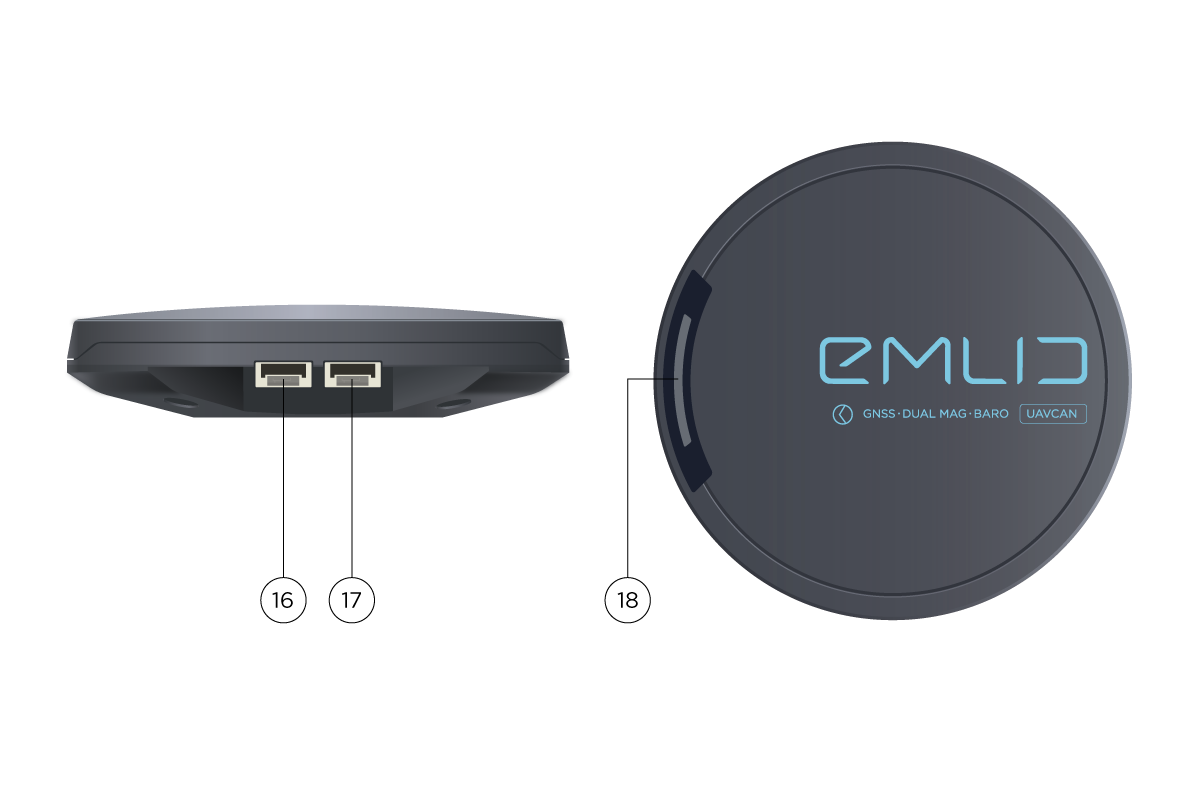
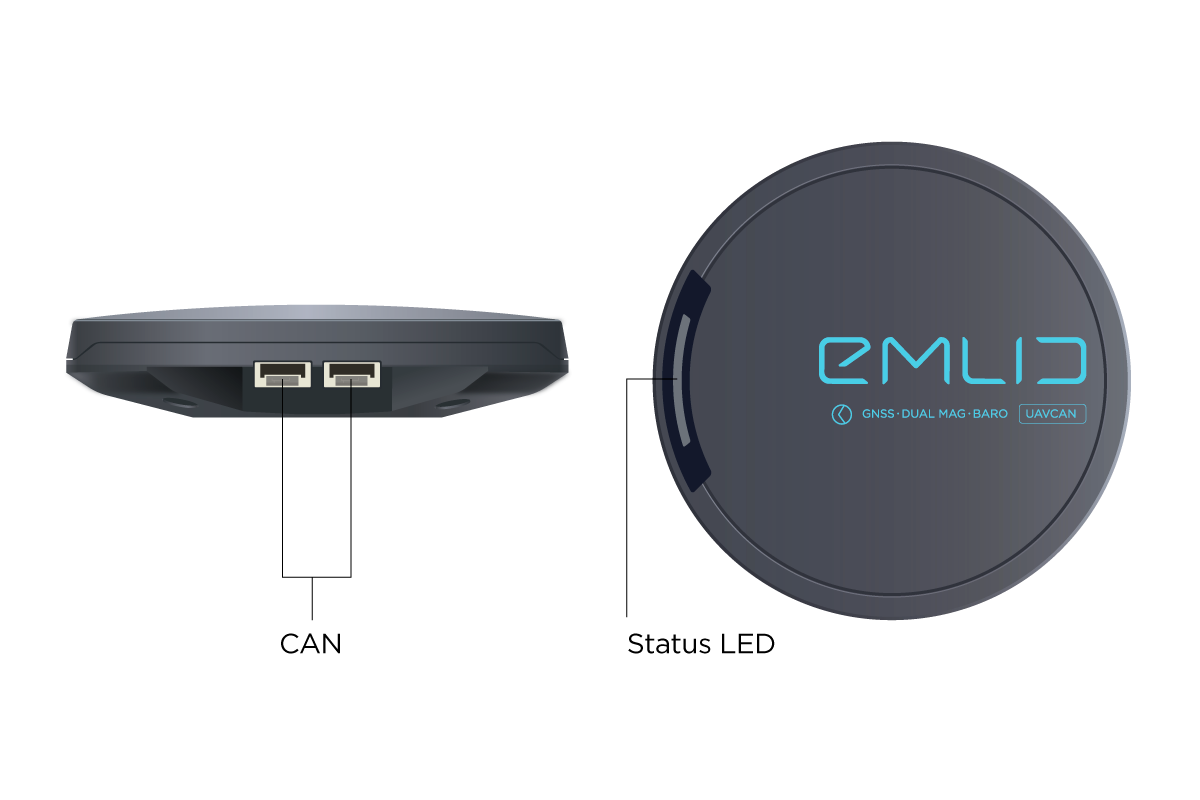
hardware: pinout: use images with labels

diff --git a/docs/hardware/pinout.md b/docs/hardware/pinout.md
@@ -2,18 +2,11 @@
 
 ## Ports
 
-|Port            	    | Edge                     | Port |
-|:-------------------------:|:-------------------------:|:-------:|
-| 1 - USB2 <hr> 2 - Status LED <hr> 3 - HDMI-IN  |	<div style="text-align: center;"><img src="../../img/hardware/edge_ports_1_6.png" style="width: 700px;"> </div> | 4 - Wi-Fi LED <hr> 5 - USB1 <hr> 6 - PC |
+<div style="text-align: center;"><img src="../../img/hardware/edge_ports_1_6.png" style="width: 700px;"> </div>
 
+<div style="text-align: right;"><img src="../../img/hardware/edge_ports_7_15.png" style="width: 700px;"></div> 
 
-|Port            	    |  Edge  | Port |
-|:----------------:|:--------------:|:----------------:|
-|  7 - RC input (marked as R) <hr> 8 - SBUS output (marked as S) <hr>  9 - RC output 1-12 <hr>10 - PWR1 | <div style="text-align: right;"><img src="../../img/hardware/edge_ports_7_15.png" style="width: 700px;"></div> | 11 - PWR2 <hr> 12 - CAN <hr> 13 - CAN  <hr> 14 - SER1-I2C <hr>  15 - SER2-ADC            |
-
-| Port | Edge GNSS 	|
-|:-------|:------:|
-| 16 - CAN <hr> 17 - CAN <hr> 18 -  Status LED | <div style="text-align: center;"><img src="../../img/hardware/edge_gnss_ports.png" style="width: 700px;"></div> 	|
+<div style="text-align: center;"><img src="../../img/hardware/edge_gnss_ports.png" style="width: 700px;"></div>
 
 ## Pinout
 
